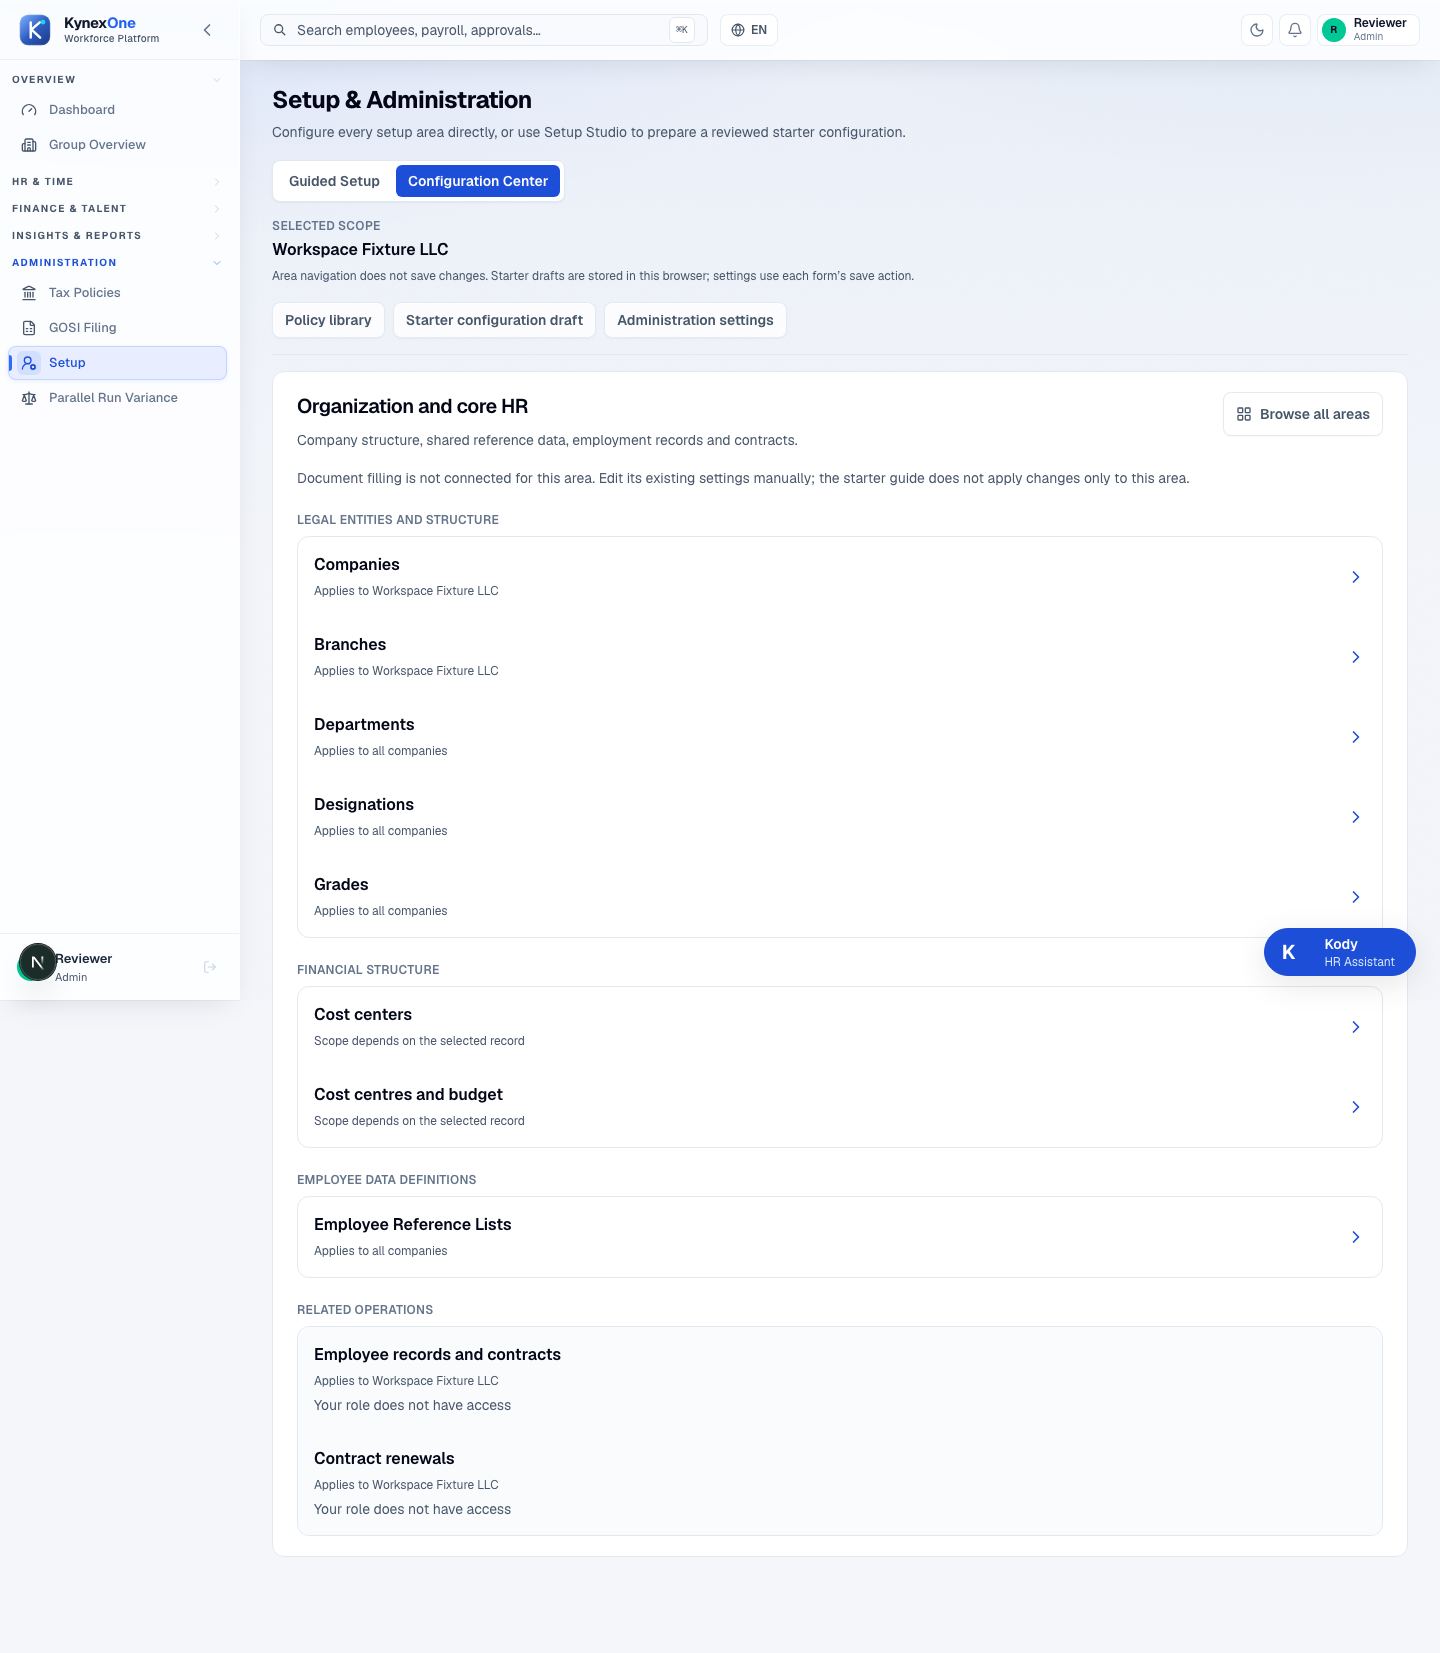
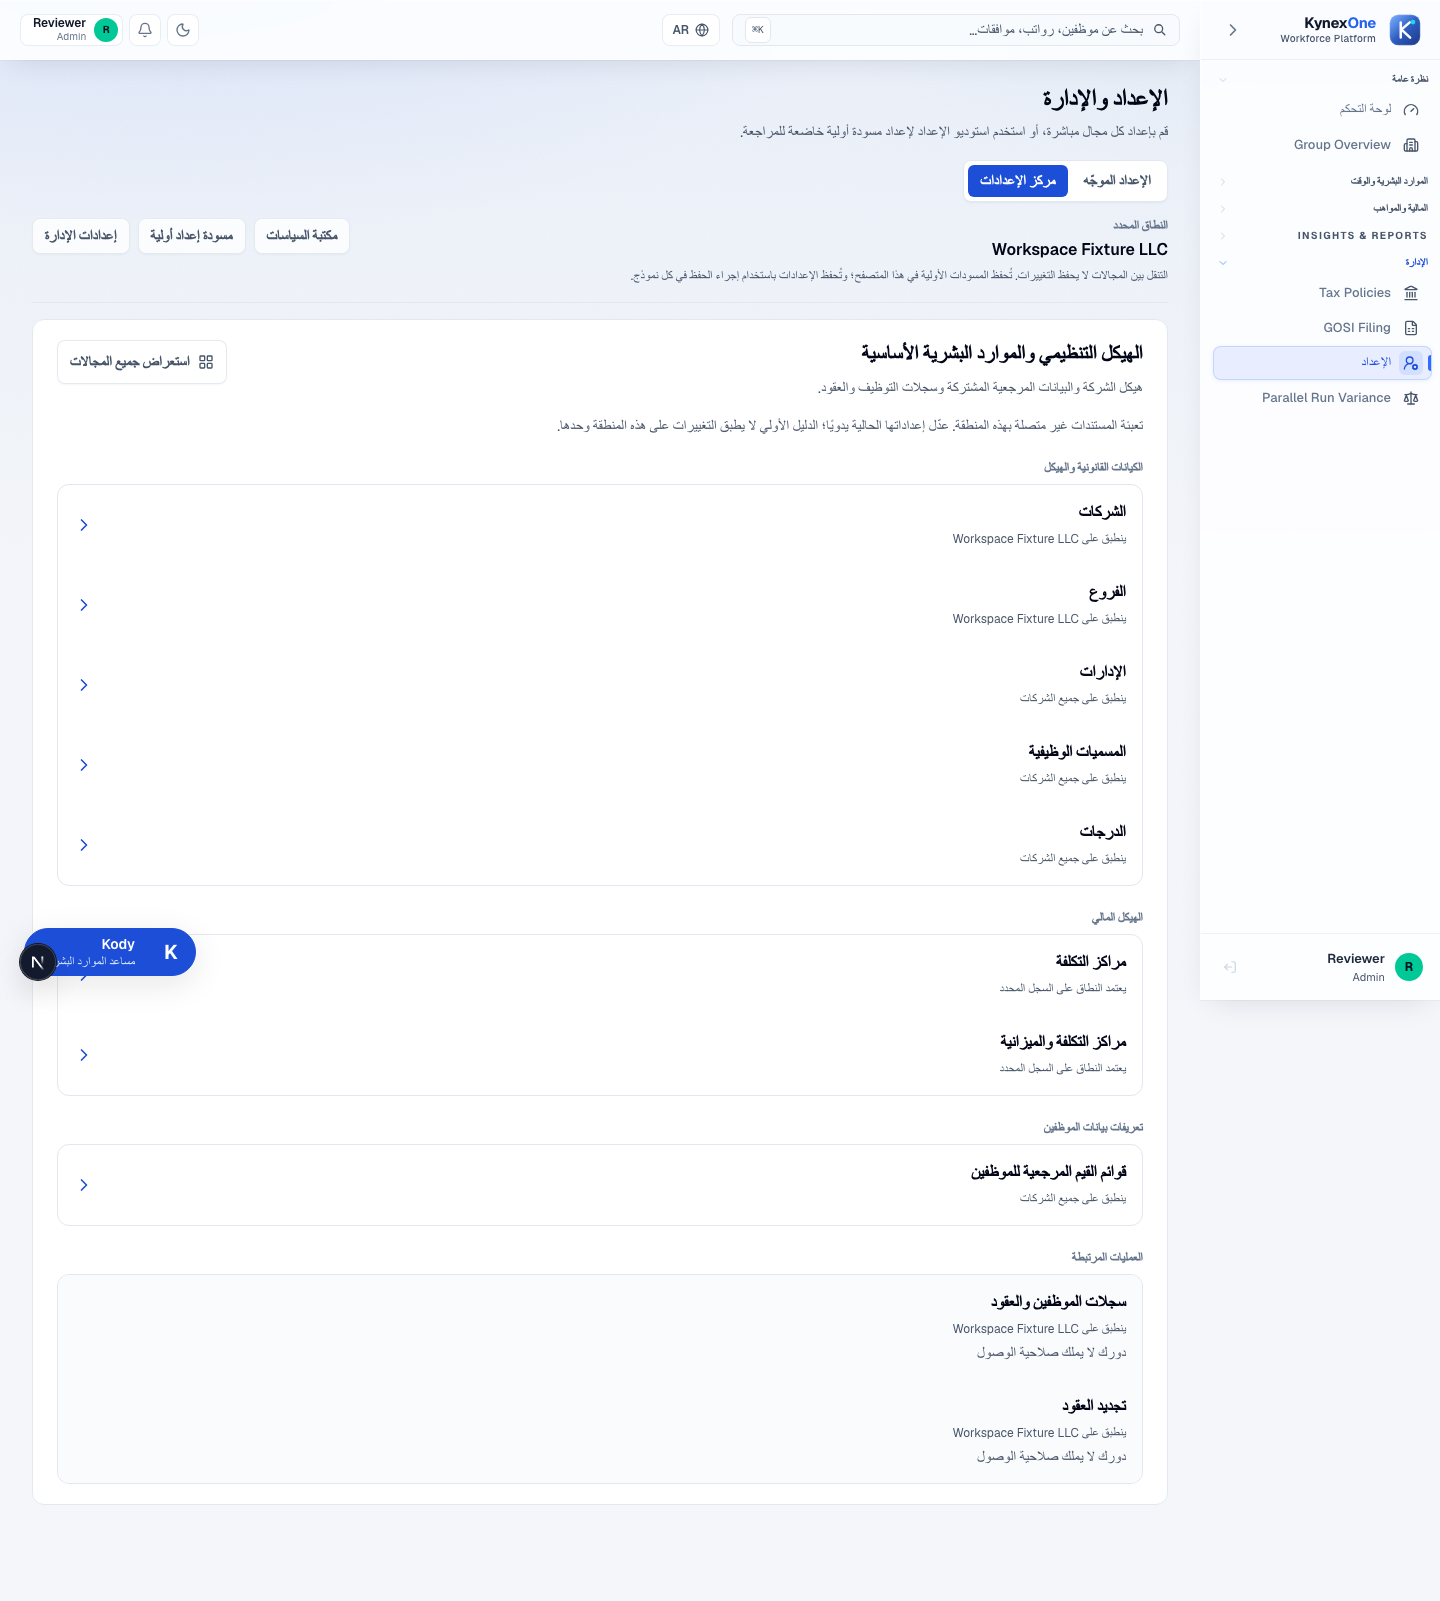
test: verify real Arabic Setup acceptance

diff --git a/frontend/e2e/setup-studio-workspace.spec.ts b/frontend/e2e/setup-studio-workspace.spec.ts
@@ -1960,21 +1960,36 @@ test('guided_visual_contract_survives_configuration_redesign', async ({ page }, 
 });
 
 test('english_and_arabic_paths_have_no_serious_or_critical_axe_findings', async ({ page }, testInfo) => {
-  const { writes } = await boot(page);
-  for (const locale of ['en', 'ar'] as const) {
-    await page.evaluate(value => localStorage.setItem('kynexone-locale-choice-v2', value), locale);
-    await page.goto('/setup?tab=aiSetup&path=configuration&companyId=fixture-company&source=retained&area=organization');
-    await expect(page.getByTestId('setup-studio-workspace')).toBeVisible();
-    let result = await new AxeBuilder({ page }).include('[data-testid="setup-studio-workspace"]').analyze();
-    expect(result.violations.filter(violation => violation.impact === 'serious' || violation.impact === 'critical')).toEqual([]);
-    if (process.env.CAPTURE_TASK5_EVIDENCE === '1' && testInfo.project.name === 'desktop') await page.screenshot({ path: task5Evidence(`configuration-${locale}-desktop.png`), fullPage: true });
+  const arabicPage = await page.context().newPage();
+  const arabicErrors: string[] = [];
+  arabicPage.on('pageerror', error => arabicErrors.push(error.message));
+  arabicPage.on('console', message => { if (message.type() === 'error' && !message.text().includes('Failed to load resource')) arabicErrors.push(message.text()); });
+  const english = await boot(page);
+  const arabic = await boot(arabicPage, { arabic: true });
+  const locales = [
+    { locale: 'en', target: page, direction: 'ltr', referenceLists: 'Employee Reference Lists', guidedHeading: 'Start with your company' },
+    { locale: 'ar', target: arabicPage, direction: 'rtl', referenceLists: 'قوائم القيم المرجعية للموظفين', guidedHeading: 'ابدأ بمعلومات شركتك' },
+  ] as const;
 
-    await page.goto('/setup?tab=aiSetup&path=guided&companyId=fixture-company');
-    await expect(page.locator('#setup-aiSetup')).toBeVisible();
-    result = await new AxeBuilder({ page }).include('#setup-aiSetup').analyze();
+  for (const { locale, target, direction, referenceLists, guidedHeading } of locales) {
+    await target.goto('/setup?tab=aiSetup&path=configuration&companyId=fixture-company&source=retained&area=organization');
+    await expect(target.getByTestId('setup-studio-workspace')).toBeVisible();
+    await expect(target.locator('html')).toHaveAttribute('dir', direction);
+    await expect(target.getByRole('button', { name: referenceLists, exact: true })).toBeVisible();
+    let result = await new AxeBuilder({ page: target }).include('[data-testid="setup-studio-workspace"]').analyze();
+    expect(result.violations.filter(violation => violation.impact === 'serious' || violation.impact === 'critical')).toEqual([]);
+    if (process.env.CAPTURE_TASK5_EVIDENCE === '1' && testInfo.project.name === 'desktop') await target.screenshot({ path: task5Evidence(`configuration-${locale}-desktop.png`), fullPage: true });
+
+    await target.goto('/setup?tab=aiSetup&path=guided&companyId=fixture-company');
+    await expect(target.locator('#setup-aiSetup')).toBeVisible();
+    await expect(target.locator('html')).toHaveAttribute('dir', direction);
+    await expect(target.locator('#setup-aiSetup').getByRole('heading', { name: guidedHeading, exact: true })).toBeVisible();
+    result = await new AxeBuilder({ page: target }).include('#setup-aiSetup').analyze();
     expect(result.violations.filter(violation => violation.impact === 'serious' || violation.impact === 'critical')).toEqual([]);
   }
-  expect(writes).toEqual([]);
+  expect([...english.writes, ...arabic.writes]).toEqual([]);
+  expect(arabicErrors, 'No Arabic application runtime errors').toEqual([]);
+  await arabicPage.close();
 });
 
 test('mobile_390_and_320_have_no_page_overflow', async ({ page }, testInfo) => {

diff --git a/docs/SETUP_STUDIO_WORKSPACE_VERIFICATION.md b/docs/SETUP_STUDIO_WORKSPACE_VERIFICATION.md
@@ -19,6 +19,8 @@ The eight required cross-cutting contracts are committed in `frontend/e2e/setup-
 
 RED: the first desktop-focused run passed 6 and failed 2. At 320/390 widths, the mobile navigator was visible but its Close control was not clickable because the shell's sticky header intercepted the pointer; the Arabic navigator failure was an ambiguous test locator rather than a product defect. After portaling the dialog and anchoring the Arabic accessible name, the exact desktop/mobile acceptance set passed **16/16**. The tests prove zero serious/critical Axe violations for English and Arabic Guided/Configuration regions, no document overflow at 320/390, reachable navigation at the 200%/400% reflow equivalents, and exact dirty cancel/confirm behavior including URL, authored value, scroll, focus, history, and zero writes.
 
+Review correction: the first English/Arabic Axe loop was not trustworthy because the shared `boot` init script reset the locale to English on each navigation. A new Arabic `dir=rtl` assertion reproduced the false pass (`ltr` received). English and Arabic now boot in separate pages with independent locale init scripts. Before Axe, each path must expose its expected document direction and localized Configuration/Guided anchors. The corrected exact set remains **16/16**, and the related Arabic focused layout, authorization-recovery, and approved-rename cases pass **6/6**.
+
 Stable screenshots under `docs/evidence/setup-studio-task5/`:
 
 - `guided-preserved-desktop.png`
@@ -30,12 +32,13 @@ Stable screenshots under `docs/evidence/setup-studio-task5/`:
 - `configuration-200-percent.png`
 - `configuration-400-percent.png`
 
-These screenshots use the intercepted browser fixture. They are responsive/layout evidence, not authenticated persistence evidence.
[1 lines of base64/hex data omitted]
 
 ## Commands and results
 
 - Setup path/catalogue/canonical-form units: **27 passed**.
 - Exact Task 5 acceptance, desktop and mobile: **16 passed**; the final mobile screenshot refresh also passed **2/2**.
+- Corrected Arabic focused layout/auth/approved-rename cases: **6/6 passed**.
 - Setup lifecycle: **10 passed**.
 - Policy binder: **6 passed**.
 - Policy review: **8 passed**.
@@ -65,11 +68,21 @@ The controller repaired only the local runtime target and opened the existing si
 
 The frontend does not expose a matching source commit, and the backend identity differs from the frontend source HEAD. Therefore this proves a healthy local signed-in UI against a live local API and populated canonical data; it does **not** prove same-commit frontend/backend provenance, server authorization exhaustiveness, production deployment, or persistence of a new Task 5 write.
 
+### Native Chrome zoom, keyboard, and RTL gate
+
+This gate used the authenticated tenant and actual Chrome zoom controls, not only emulated viewport widths.
+
+- At 100%: `innerWidth=1728`, `devicePixelRatio=2`, `clientWidth=scrollWidth=1724`.
+- At native 200%: Chrome showed 200%; `innerWidth=864`, `devicePixelRatio=4`, `clientWidth=scrollWidth=860`, with no horizontal overflow. Shift+Tab reached Next, Previous, and Back. Browse all areas exposed Workspace overview and all 12 named areas.
+- At native 400%: Chrome showed 400%; `innerWidth=432`, `devicePixelRatio=8`, `clientWidth=scrollWidth=428`, with no horizontal overflow. Return opened the area dialog, Tab focused Close, Shift+Tab wrapped to Compliance and statutory administration, and Escape closed and restored focus to Browse all areas.
+- Live Arabic at native 400% exposed `html lang="ar" dir="rtl"`, localized heading `الإعداد والإدارة`, `innerWidth=432`, `devicePixelRatio=8`, `clientWidth=scrollWidth=428`, and reachable localized Back/Previous/Next actions.
+- The controller restored English/LTR/100% (`innerWidth=1728`, `devicePixelRatio=2`) and left the focused Leave policies tab open.
+
 ## Task 5 remaining gates and nonclaims
 
 - The clean commit cannot reconstruct the full accepted working tree until the user-owned Guided and related dirty integration is separately reconciled.
 - The 48 broad workspace failures, 2 Guided compactness failures, and 9 legacy prefill-entry failures remain outside this bounded Configuration-only fix and require separate baseline ownership.
-- Browser automation supplied keyboard, focus, RTL, 320/390, 200%, and 400% evidence. Authenticated shadow-tenant validation remained read-only by design.
+- Browser automation supplies repeatable focus, RTL, 320/390, and reflow regression evidence; native Chrome separately verifies actual 200%/400% zoom and keyboard behavior. Authenticated shadow-tenant validation remained read-only by design.
 - No backend, schema, database, authentication, deployment, feature-flag, or production mutation was made by Task 5.
 
 ---

diff --git a/.superpowers/sdd/2026-10-18-setup-configuration-center/task-5-report.md b/.superpowers/sdd/2026-10-18-setup-configuration-center/task-5-report.md
@@ -21,12 +21,15 @@ npx playwright test -c e2e/playwright.setup-studio-workspace.config.ts \
 16 passed
 ```
 
[1 lines of base64/hex data omitted]
+
 ## Required gates
 
 | Gate | Result |
 | --- | --- |
 | setupPathState/setupAreas/setupCanonicalForms | 27 passed |
 | exact Task 5 desktop/mobile | 16 passed |
+| Arabic focused layout/auth/approved-rename cases | 6 passed |
 | setup lifecycle | 10 passed |
 | setup experience | 61 passed, 3 skipped, 2 pre-existing Guided compactness failures |
 | policy form prefill | 13 passed, 9 stale untracked workspace-entry failures |
@@ -44,7 +47,15 @@ A fresh `git checkout-index` export passed 27/27 units, 14/16 Task 5 cases, and 
 
 ## Responsive, RTL, keyboard, and accessibility evidence
 
-The exact tests cover keyboard focus restoration, dialog focus containment/Escape, dirty cancel/confirm, English and Arabic Axe analysis, 320/390 widths, and the 720/320 CSS-pixel equivalents used for 200%/400% reflow. Stable screenshots are in `docs/evidence/setup-studio-task5/`.
+The exact tests cover keyboard focus restoration, dialog focus containment/Escape, dirty cancel/confirm, separately booted English and Arabic Axe analysis, 320/390 widths, and the 720/320 CSS-pixel equivalents used for 200%/400% reflow. Stable screenshots are in `docs/evidence/setup-studio-task5/`.
+
+The controller also performed the actual native Chrome gate on the authenticated tenant rather than relying only on viewport emulation:
+
+- Baseline 100%: `innerWidth=1728`, `devicePixelRatio=2`, `clientWidth=scrollWidth=1724`.
+- Native Chrome 200%: visible 200% zoom badge, `innerWidth=864`, `devicePixelRatio=4`, `clientWidth=scrollWidth=860`; no horizontal overflow. Shift+Tab reached Next, Previous, then Back. The all-area dialog exposed Workspace overview plus all 12 named areas.
+- Native Chrome 400%: visible 400% zoom badge, `innerWidth=432`, `devicePixelRatio=8`, `clientWidth=scrollWidth=428`; no horizontal overflow. Return opened Browse all areas, Tab focused Close, Shift+Tab wrapped to Compliance and statutory administration, and Escape closed the dialog and restored focus to Browse all areas.
+- Live Arabic at native 400%: `html lang="ar" dir="rtl"`, localized `الإعداد والإدارة`, `innerWidth=432`, `devicePixelRatio=8`, `clientWidth=scrollWidth=428`; localized Back/Previous/Next remained reachable.
+- Chrome was restored to English/LTR/100% (`innerWidth=1728`, `devicePixelRatio=2`) and the focused Leave policies tab was left open.
 
 ## Authenticated read-only validation
 

diff --git a/.superpowers/sdd/2026-10-18-setup-configuration-center/progress.md b/.superpowers/sdd/2026-10-18-setup-configuration-center/progress.md
@@ -92,3 +92,5 @@ Task 5 GREEN: the area navigator now portals to `document.body`, and the exact d
 Task 5 broad-baseline ruling: workspace is 185 passed/3 skipped/48 pre-existing dirty-suite failures; setup experience is 61 passed/3 skipped/2 protected Guided compactness failures; policy prefill is 13 passed/9 stale untracked workspace-entry failures. The index-only export passes 14/16 Task 5 tests and exposes the pre-existing unstaged Guided-toolbar dependency; its TypeScript reaches only the known unrelated employee-access export mismatch, and its production build passes. These gaps are documented without staging unrelated user work.
 
 Task 5 authenticated read-only acceptance: local 5197 was restarted with API target 5127; Evostel Shadow Administrator/Admin selected Evostel Policy Shadow — Local. Guided retained five steps and the approved controls; Configuration Leave exposed whole-row settings; focused Leave policies reopened 14 populated Active canonical records with Back/Previous/Next and New/Edit/Archive available. No save, apply, archive, publish, or tenant mutation was performed. Frontend build identity remains `unknown`; API health is HTTP 200 at commit `2e992b3da05dc3f923376638d0e205b7de0132cd`, so matching runtime provenance is not claimed.
+
+Task 5 review fix: a new `dir=rtl` assertion proved the original Arabic Axe loop was resetting to English. English and Arabic now use separate page/init-script lifecycles and must expose locale-specific direction plus Configuration and Guided anchors before Axe. Corrected exact acceptance passes 16/16; related Arabic focused cases pass 6/6; regenerated EN/AR screenshot hashes differ. Native authenticated Chrome additionally passed actual 200% and 400% zoom, keyboard dialog/focus-loop/restore, no-horizontal-overflow, and live Arabic RTL/localized-navigation checks before restoration to English/LTR/100%. No production UI or tenant data changed.
